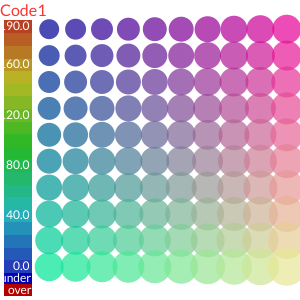
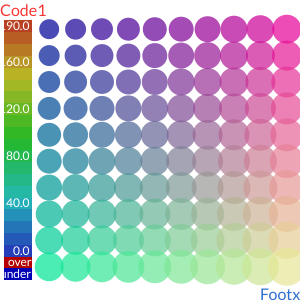
fix: add align prop in textbox

diff --git a/layout.go b/layout.go
@@ -16,21 +16,26 @@ type Layout struct {
 }
 
 func (l Layout) Draw(dc *gg.Context) {
-	var cX, cY float64
+	var lX, tY, rX, bY float64
 	if l.Header != nil {
-		l.Header.Draw(dc, 0, 0)
-		_, cY = l.Header.Size()
+		_, tY = l.Header.Size()
+		l.Header.Draw(dc, 0, 0, float64(dc.Width()), tY)
+	}
+	if l.Footer != nil {
+		_, bY = l.Header.Size()
+		y := float64(dc.Height()) - bY
+		l.Footer.Draw(dc, 0, y, float64(dc.Width()), bY)
 	}
 
 	if l.LSide != nil {
-		h := float64(dc.Height()) - cY
-		l.LSide.Draw(dc, l.LSide.Width(), h, 0, cY)
-		cX += l.LSide.Width()
+		h := float64(dc.Height()) - (tY + bY)
+		l.LSide.Draw(dc, 0, tY, l.LSide.Width(), h)
+		lX += l.LSide.Width()
 	}
 	if l.Content != nil {
-		w := float64(dc.Width()) - cX
-		h := float64(dc.Height()) - cY
-		l.Content.Draw(dc, w, h, cX, cY)
+		w := float64(dc.Width()) - (lX + rX)
+		h := float64(dc.Height()) - (tY + bY)
+		l.Content.Draw(dc, lX, tY, w, h)
 	}
 }
 
@@ -40,30 +45,31 @@ type Scale struct {
 }
 
 type Box interface {
-	Draw(dc *gg.Context, x, y float64)
+	Draw(dc *gg.Context, x, y, w, h float64)
 	Size() (w, h float64)
 }
 
 // VerticalBox is has fixed width and auto tune height
 type VerticalBox interface {
-	Draw(dc *gg.Context, w, h, x, y float64)
+	Draw(dc *gg.Context, x, y, w, h float64)
 	Width() (w float64)
 }
 
 type ScaleBox interface {
-	Draw(dc *gg.Context, w, h, x, y float64)
+	Draw(dc *gg.Context, x, y, w, h float64)
 }
 
-type ScaleBoxFunc func(dc *gg.Context, w, h, x, y float64)
+type ScaleBoxFunc func(dc *gg.Context, x, y, w, h float64)
 
-func (f ScaleBoxFunc) Draw(dc *gg.Context, w, h, x, y float64) {
-	f(dc, w, h, x, y)
+func (f ScaleBoxFunc) Draw(dc *gg.Context, x, y, w, h float64) {
+	f(dc, x, y, w, h)
 }
 
 type TextBox struct {
 	FontFace font.Face
 	Text     []string
 	Color    color.Color
+	Align    string
 }
 
 // Size is return a part of box size.
@@ -73,22 +79,34 @@ func (t TextBox) Size() (w, h float64) {
 	return
 }
 
-func (t TextBox) Draw(dc *gg.Context, x, y float64) {
+func (t TextBox) Draw(dc *gg.Context, x, y, w, h float64) {
 	dc.SetFontFace(t.FontFace)
 	dc.SetColor(t.Color)
 	fontHeight := float64(t.FontFace.Metrics().Height) / 64
-	for i, v := range t.Text {
-		dc.DrawString(v, x, y+fontHeight*float64(i+1))
+	switch t.Align {
+	case "", "left":
+		for i, v := range t.Text {
+			dc.DrawString(v, x, y+fontHeight*float64(i+1))
+		}
+	case "right":
+		for i, v := range t.Text {
+			dc.DrawStringAnchored(v, x+w, y+fontHeight*float64(i+1), 1, 0)
+		}
+	case "center":
+		for i, v := range t.Text {
+			dc.DrawStringAnchored(v, x+w/2, y+fontHeight*float64(i+1), 0.5, 0)
+		}
 	}
+
 }
 
 type VerticalBoxMargine struct {
-	drawfn func(dc *gg.Context, w, h, x, y float64)
+	drawfn func(dc *gg.Context, x, y, w, h float64)
 	margin float64
 	width  float64
 }
 
-func NewVerticalBoxMargine(drawfn func(dc *gg.Context, w, h, x, y float64), margin, width float64) VerticalBoxMargine {
+func NewVerticalBoxMargine(drawfn func(dc *gg.Context, x, y, w, h float64), margin, width float64) VerticalBoxMargine {
 	return VerticalBoxMargine{
 		drawfn: drawfn,
 		margin: margin,
@@ -96,8 +114,8 @@ func NewVerticalBoxMargine(drawfn func(dc *gg.Context, w, h, x, y float64), marg
 	}
 }
 
-func (v VerticalBoxMargine) Draw(dc *gg.Context, w, h, x, y float64) {
-	v.drawfn(dc, w-v.margin*2, h-v.margin*2, x+v.margin, y+v.margin)
+func (v VerticalBoxMargine) Draw(dc *gg.Context, x, y, w, h float64) {
+	v.drawfn(dc, x+v.margin, y+v.margin, w-v.margin*2, h-v.margin*2)
 }
 
 func (v VerticalBoxMargine) Width() float64 {

diff --git a/examples/image_test.go b/examples/image_test.go
@@ -67,7 +67,7 @@ func TestGGTextsize(t *testing.T) {
 		Text:     []string{"Code1", "nCode2", "code3"},
 		Color:    color.NRGBA{245, 23, 22, 220},
 	}
-	tbox.Draw(dc, 0, 0)
+	tbox.Draw(dc, 0, 0, float64(dc.Width()), float64(dc.Height()))
 
 	dc.SavePNG("font.png")
 }
@@ -116,8 +116,17 @@ func TestGGWithBoxLayout(t *testing.T) {
 	}
 	l.Header = tbox
 
+	tboxbtm := lgimage.TextBox{
+		FontFace: fLat16,
+		Text:     []string{"Footx"},
+		Color:    color.NRGBA{12, 90, 200, 220},
+		Align:    "right",
+	}
+	l.Footer = tboxbtm
+
 	// Scale box
-	content := func(dc *gg.Context, w, h, x, y float64) {
+	content := func(dc *gg.Context, x, y, w, h float64) {
+
 		var min, ofx float64
 		min = w
 		if min > h {
@@ -150,7 +159,7 @@ func TestGGWithBoxLayout(t *testing.T) {
 
 	// Left Side
 	fLat12, _ := gg.LoadFontFace("../assets/Lato-Regular.ttf", 12)
-	lsfn := func(dc *gg.Context, w, h, x, y float64) {
+	lsfn := func(dc *gg.Context, x, y, w, h float64) {
 		cmap := make(map[string]color.Color)
 		cmap["under"] = color.NRGBA{0, 0, 180, 255}
 		cmap["over"] = color.NRGBA{180, 0, 0, 255}

diff --git a/matrix.go b/matrix.go
@@ -76,9 +76,9 @@ func (c ColorScale) DrawVertical(dc *gg.Context) {
 		dc.Fill()
 	}
 
-	// 数値を埋める
+	// Paint scale
 	splitLen := 20
-	zY = c.Y + numH // 書き込み富順高さを指定
+	zY = c.Y + numH // 書き込み基準高さを指定
 	dy = numH / float64(splitLen)
 	dv := (c.Vmax - c.Vmin) / float64(splitLen)
 	step := int(math.Ceil(fontHeight * 3 / dv))
